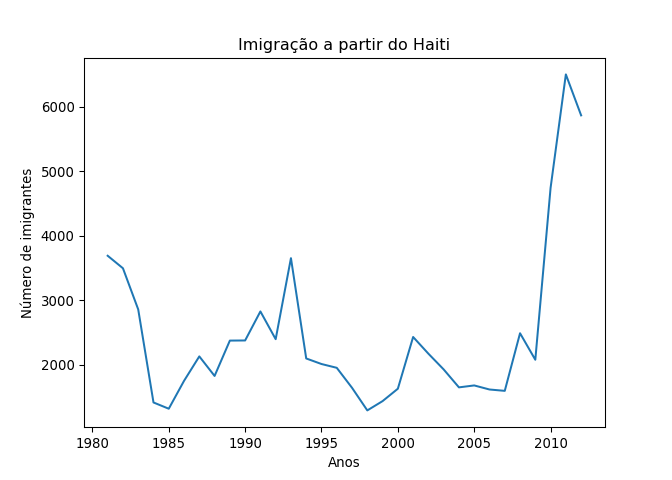
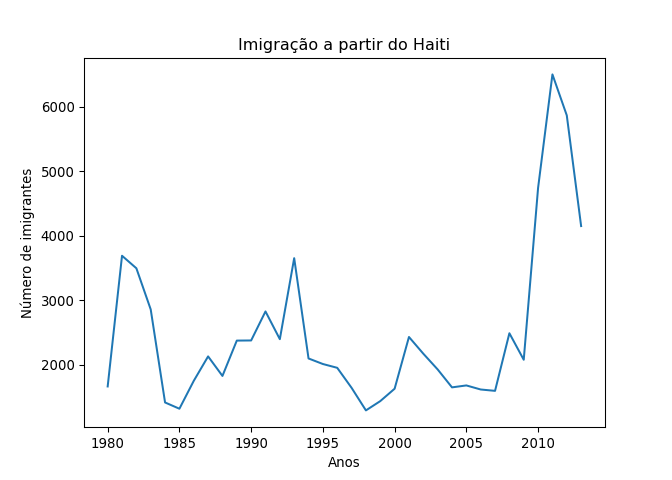
agora foi!

diff --git a/Script.md b/Script.md
@@ -130,9 +130,27 @@ df_can.head()
     ## [5 rows x 43 columns]
 
 ``` python
+df_can.columns = df_can.columns.astype(str)
+```
+
+``` python
 years=list(map(str,range(1980,2014)))
 years_num = list(map(int,years))
-df_can.iloc[75,10:42].plot(kind='line')
+df_can['Soma']=df_can[years].sum(axis=1)
+df_can.head()
+```
+
+    ##          Type    Coverage          OdName  AREA  ...  2011  2012  2013   Soma
+    ## 0  Immigrants  Foreigners     Afghanistan   935  ...  2203  2635  2004  58639
+    ## 1  Immigrants  Foreigners         Albania   908  ...   539   620   603  15699
+    ## 2  Immigrants  Foreigners         Algeria   903  ...  4325  3774  4331  69439
+    ## 3  Immigrants  Foreigners  American Samoa   909  ...     0     0     0      6
+    ## 4  Immigrants  Foreigners         Andorra   908  ...     0     1     1     15
+    ## 
+    ## [5 rows x 44 columns]
+
+``` python
+df_can.loc[75,years].plot(kind='line')
 plt.xlabel("Anos")
 plt.ylabel("Número de imigrantes")
 plt.title("Imigração a partir do Haiti")
